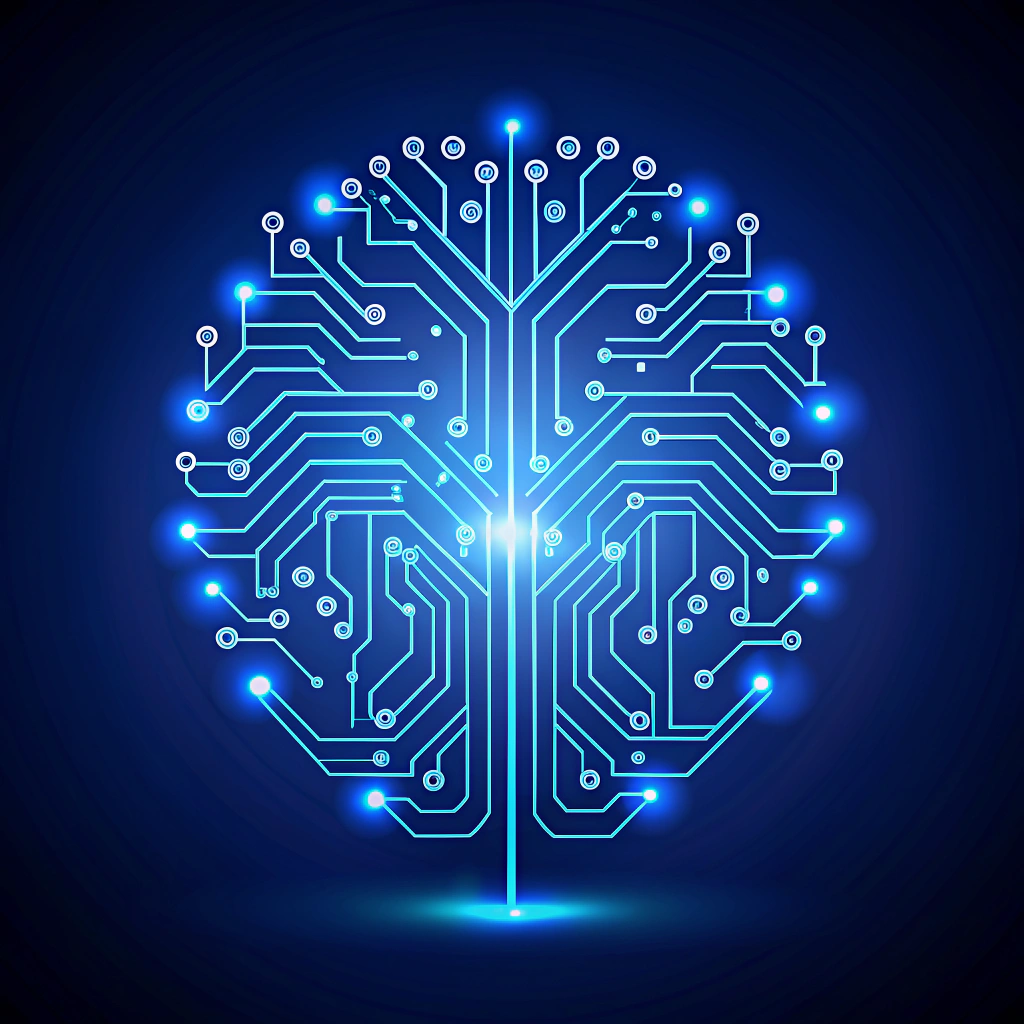
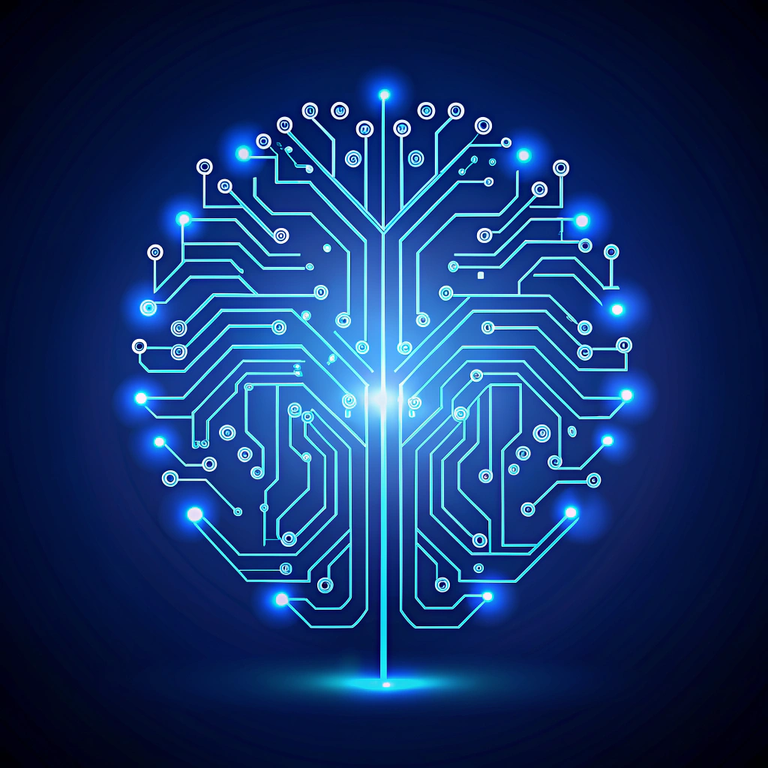
perf(landing): cut image weight, drop backdrop-blur, GPU-friendly bars, rAF scroll, content-visibility

diff --git a/frontend/src/home/home.css b/frontend/src/home/home.css
@@ -1,6 +1,5 @@
-@import url('https://fonts.googleapis.com/css2?family=Inter:wght@400;500;600;700;800&display=swap');
-
-/* ═══════════ EXAMIQ PREMIUM WHITE THEME (scoped to landing) ═══════════ */
+/* NOTE: Inter font is loaded via <link> in public/index.html (faster than @import).
+   ═══════════ EXAMIQ PREMIUM WHITE THEME (scoped to landing) ═══════════ */
 .examiq {
   --bg: #FFFFFF;
   --bg-alt: #F7FAFF;
@@ -45,10 +44,10 @@
   transition: background 0.3s ease, box-shadow 0.3s ease;
 }
 .ex-nav.is-scrolled {
-  background: rgba(255, 255, 255, 0.88);
-  backdrop-filter: blur(14px);
-  -webkit-backdrop-filter: blur(14px);
-  box-shadow: 0 4px 20px rgba(23, 32, 51, 0.06);
+  /* Solid surface instead of backdrop-blur: identical look on white,
+     but avoids re-blurring the whole page on every scroll frame. */
+  background: rgba(255, 255, 255, 0.97);
+  box-shadow: 0 4px 20px rgba(23, 32, 51, 0.07);
 }
 .ex-nav-inner {
   max-width: 1180px; margin: 0 auto;
@@ -158,8 +157,7 @@
 .ex-hero-visual { position: relative; min-height: 500px; animation: fadeScale 0.8s var(--ease) 0.3s both; }
 .ex-dash-card {
   position: absolute; top: 6%; left: 8%; right: 8%;
-  background: rgba(255, 255, 255, 0.92);
-  backdrop-filter: blur(10px); -webkit-backdrop-filter: blur(10px);
+  background: #fff;
   border: 1px solid var(--border); border-radius: 20px;
   box-shadow: var(--shadow-md);
   padding: 22px;
@@ -180,10 +178,12 @@
 .ex-dash-progress strong { display: block; font-size: 15px; }
 .ex-dash-progress small { color: var(--muted); font-size: 12px; display: block; margin: 2px 0 8px; }
 .ex-meter { height: 7px; border-radius: 99px; background: #EDF2F9; overflow: hidden; }
-.ex-meter i { display: block; height: 100%; border-radius: 99px; background: linear-gradient(90deg, var(--blue), var(--cyan)); }
-.in-view .ex-meter i { animation: fillX 1.2s var(--ease) both; }
-.ex-dash-card .ex-meter i { animation: fillX 1.2s var(--ease) 0.6s both; }
-@keyframes fillX { from { width: 0 !important; } }
+/* GPU-friendly fill: scaleX (composited) instead of width (layout thrash). */
+.ex-meter i { display: block; height: 100%; border-radius: 99px; background: linear-gradient(90deg, var(--blue), var(--cyan));
+  transform: scaleX(0); transform-origin: left center; }
+.in-view .ex-meter i { animation: fillX 1.2s var(--ease) forwards; }
+.ex-dash-card .ex-meter i { animation: fillX 1.2s var(--ease) 0.6s forwards; }
+@keyframes fillX { from { transform: scaleX(0); } to { transform: scaleX(1); } }
 .ex-mini-title { font-size: 11px; font-weight: 700; text-transform: uppercase; letter-spacing: 0.08em; color: var(--faint); display: block; margin-bottom: 10px; }
 .ex-sub-row { display: flex; align-items: center; gap: 12px; margin-bottom: 10px; font-size: 13px; }
 .ex-sub-row:last-child { margin-bottom: 0; }
@@ -192,8 +192,7 @@
 .ex-meter.sm { flex: 1; }
 
 .ex-float {
-  position: absolute; background: rgba(255, 255, 255, 0.95);
-  backdrop-filter: blur(10px); -webkit-backdrop-filter: blur(10px);
+  position: absolute; background: #fff;
   border: 1px solid var(--border); border-radius: 15px;
   box-shadow: var(--shadow-md);
   padding: 14px 16px; width: 224px;
@@ -219,6 +218,11 @@
 
 /* ── SECTION SCAFFOLD ── */
 .ex-preview, .ex-features, .ex-how, .ex-split, .ex-insights, .ex-benefits { padding: 92px 28px; }
+/* Skip offscreen rendering work until sections near the viewport. */
+.ex-preview, .ex-features, .ex-how, .ex-split, .ex-insights, .ex-benefits, .ex-final {
+  content-visibility: auto;
+  contain-intrinsic-size: auto 900px;
+}
 .ex-preview { background: var(--bg-alt); }
 .ex-insights { background: var(--bg-blue); }
 .ex-section-head { text-align: center; max-width: 620px; margin: 0 auto 52px; }
@@ -415,9 +419,11 @@
 
 /* ── SCROLL REVEAL (16–24px rise, one-shot) ── */
 .rv-up, .rv-left, .rv-right, .rv-scale {
-  opacity: 0; will-change: opacity, transform;
+  opacity: 0;
   transition: opacity 0.65s var(--ease), transform 0.65s var(--ease);
 }
+/* Release compositor layers once revealed — keeps memory/scroll smooth. */
+.rv-up.in-view, .rv-left.in-view, .rv-right.in-view, .rv-scale.in-view { will-change: auto; }
 .rv-up { transform: translateY(22px); }
 .rv-left { transform: translateX(-22px); }
 .rv-right { transform: translateX(22px); }
@@ -438,6 +444,9 @@
   .ex-footer-inner { grid-template-columns: 1fr; }
 }
 @media (max-width: 768px) {
+  /* Reduce continuous paint work on low-powered devices. */
+  .ex-hero-bg .particle { display: none; }
+  .wash-a, .wash-b { animation: none; }
   .ex-nav-links, .ex-nav-cta .ex-login, .ex-nav-cta .ex-cta { display: none; }
   .ex-menu-btn { display: block; }
   .ex-mobile { display: flex; flex-direction: column; padding: 0 24px; background: #fff; border-bottom: 1px solid var(--border);

diff --git a/frontend/src/home/home.js b/frontend/src/home/home.js
@@ -110,8 +110,17 @@ const Home = () => {
   const [active, setActive] = useState("");
   const year = new Date().getFullYear();
 
+  /* rAF-throttled scroll flag: one state update per frame, no scroll jank. */
   useEffect(() => {
-    const onScroll = () => setScrolled(window.scrollY > 16);
+    let ticking = false;
+    const onScroll = () => {
+      if (ticking) return;
+      ticking = true;
+      window.requestAnimationFrame(() => {
+        setScrolled(window.scrollY > 16);
+        ticking = false;
+      });
+    };
     onScroll();
     window.addEventListener("scroll", onScroll, { passive: true });
     return () => window.removeEventListener("scroll", onScroll);

diff --git a/frontend/public/index.html b/frontend/public/index.html
@@ -4,7 +4,13 @@
     <meta charset="utf-8" />
     <link rel="icon" type="image/png" href="%PUBLIC_URL%/logo.png" />
     <meta name="viewport" content="width=device-width, initial-scale=1" />
-    <meta name="theme-color" content="#000000" />
+    <meta name="theme-color" content="#ffffff" />
+    <link rel="preconnect" href="https://fonts.googleapis.com" />
+    <link rel="preconnect" href="https://fonts.gstatic.com" crossorigin />
+    <link
+      href="https://fonts.googleapis.com/css2?family=Inter:wght@400;500;600;700;800&display=swap"
+      rel="stylesheet"
+    />
     <meta
       name="description"
       content="Web site created using create-react-app"
